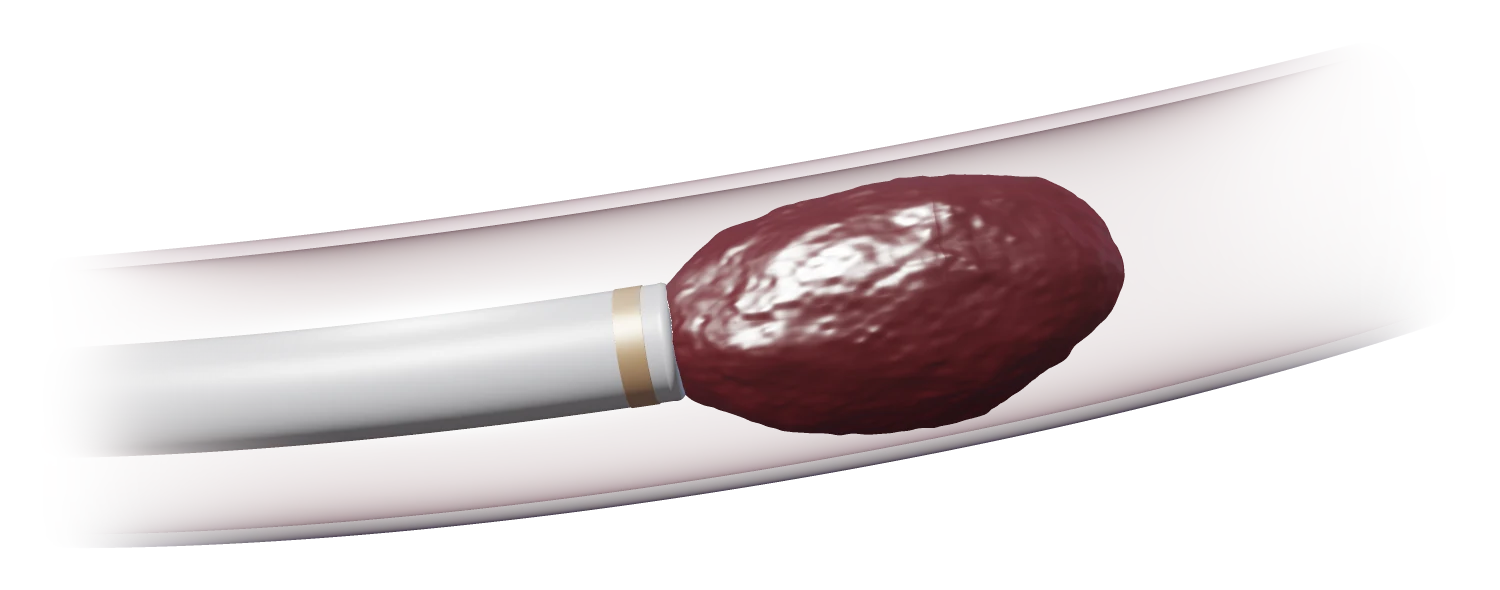
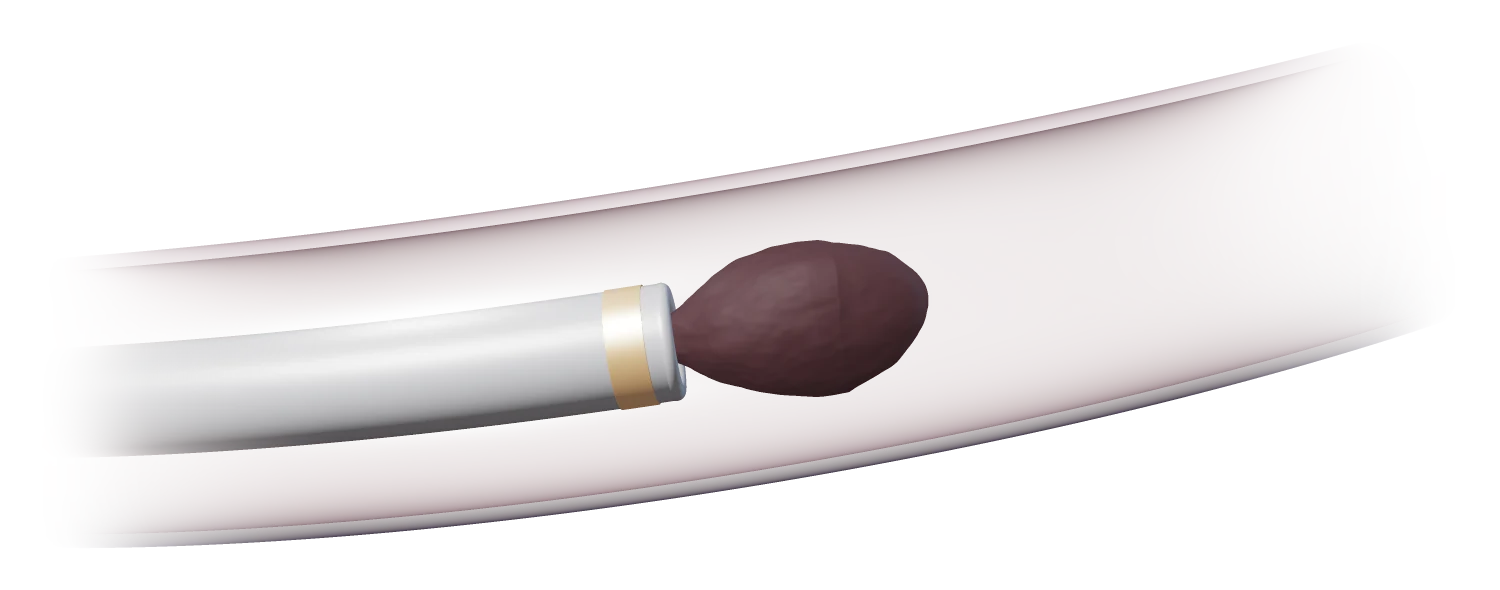
inseratherapeutics: calm whole-line loader reveal, matte muted thrombus in the hero (coordinator review)
Claude-Session: https://claude.ai/code/session_014388NDCrNT9zcoruDCspgC

Changed region(s): [[0.3987, 0.2746, 0.7667, 0.7627]]

diff --git a/_kit/home/inseratherapeutics/render.js b/_kit/home/inseratherapeutics/render.js
@@ -27,17 +27,17 @@ mat3 rotX(float a){float c=cos(a),s=sin(a);return mat3(1.,0.,0.,0.,c,s,0.,-s,c);
 vec3 tube(vec3 p){p=rotZ(-.16)*p;vec2 c=vec2(p.x,p.z+RR);float ph=atan(c.x,c.y);return vec3(ph*RR,length(c)-RR,p.y);}
 float shell(vec3 p){vec3 t=tube(p);return abs(length(t.yz)-RO)-WT;}
 float clotD(vec3 t){
-  vec3 b=vec3(t.x-.62,t.y,t.z);float d=sdEll(b,vec3(.95,.50,.50));
+  vec3 b=vec3(t.x-.28,t.y,t.z);float d=sdEll(b,vec3(.48,.30,.31));
   /* tail, tapering back into the catheter mouth */
-  float u=clamp((t.x-(ST-.18))/(.62-(ST-.18)),0.,1.);float rr=mix(.10,.36,u*u);
-  float tl=max(length(t.yz-vec2(-.01,.0))-rr,max((ST-.18)-t.x,t.x-.62));
+  float u=clamp((t.x-(ST-.12))/(.28-(ST-.12)),0.,1.);float rr=mix(.09,.22,u*u);
+  float tl=max(length(t.yz-vec2(-.01,.0))-rr,max((ST-.12)-t.x,t.x-.28));
   d=smin(d,tl,.16);
-  d+=(fbm(vec3(t.x*2.2,t.y*3.6,t.z*3.6))-.5)*.13+(vn(vec3(t.x*8.,t.y*9.,t.z*9.))-.5)*.014;
+  d+=(fbm(vec3(t.x*2.6,t.y*4.,t.z*4.))-.5)*.07;
   return d;}
 vec2 inner(vec3 p){vec3 t=tube(p);float r=length(t.yz);
   float cat=max(abs(r-.205)-.034,t.x-ST);
   float lip=max(length(vec2(r-.205,t.x-ST+.0))-.036,-1.);cat=min(cat,lip);
-  float mk=max(r-.243,abs(t.x-(ST-.13))-.055);mk=max(mk,-(r-.17));
+  float mk=max(r-.245,abs(t.x-(ST-.15))-.075);mk=max(mk,-(r-.17));
   float cl=clotD(t)*.8;
   vec2 o=vec2(cat,1.);if(mk<o.x)o=vec2(mk,2.);if(cl<o.x)o=vec2(cl,3.);return o;}
 vec3 nI(vec3 p){vec2 e=vec2(.0012,0.);return normalize(vec3(inner(p+e.xyy).x-inner(p-e.xyy).x,inner(p+e.yxy).x-inner(p-e.yxy).x,inner(p+e.yyx).x-inner(p-e.yyx).x));}
@@ -58,9 +58,9 @@ vec4 trace(vec3 ro,vec3 rd){
       float nl=max(dot(n,L1),0.),wl=max(dot(n,L1)*.5+.5,0.);
       if(di.y<1.5){vec3 alb=vec3(.80,.84,.90);c=alb*(.10+.85*nl)*vec3(1.,.98,.95)+alb*vec3(.35,.5,.75)*max(dot(n,L2),0.)*.35;
         c+=vec3(1.)*ggx(n,v,L1,.22)*.25;float F=.04+.96*pow(1.-max(dot(n,v),0.),5.);c=mix(c,env(reflect(rd,n)),F*.5);}
-      else if(di.y<2.5){vec3 alb=vec3(.85,.55,.30);c=alb*(.12+.8*nl)*.6+alb*env(reflect(rd,n))*.9+vec3(1.,.85,.6)*ggx(n,v,L1,.18)*.6;}
-      else{vec3 alb=vec3(.13,.009,.017);float sss=pow(wl,1.7);c=alb*(.05+.9*sss)+vec3(.35,.02,.03)*max(dot(n,L2),0.)*.25;
-        float F=.03+.97*pow(1.-max(dot(n,v),0.),5.);c+=vec3(1.,.93,.9)*(ggx(n,v,L1,.13)*.42+ggx(n,v,normalize(vec3(-.2,.9,.5)),.09)*.22);c+=env(reflect(rd,n))*F*.6;}
+      else if(di.y<2.5){vec3 alb=vec3(.95,.58,.28);c=alb*(.18+.9*nl)*.8+alb*env(reflect(rd,n))*1.2+vec3(1.,.82,.55)*(ggx(n,v,L1,.16)*1.1+ggx(n,v,normalize(vec3(-.2,.9,.5)),.12)*.6);}
+      else{vec3 alb=vec3(.105,.042,.052);float sss=pow(wl,1.4);c=alb*(.08+.7*sss)+vec3(.10,.12,.18)*max(dot(n,L2),0.)*.20;
+        float F=.03+.97*pow(1.-max(dot(n,v),0.),5.);c+=vec3(.9,.85,.85)*ggx(n,v,L1,.55)*.05;c+=env(reflect(rd,n))*F*.18;}
       c*=.25+.75*fd;acc+=(1.-A)*c*fd;A+=(1.-A)*fd;break;}
     if(ds<.0008){
       vec3 n=nS(p),v=-rd;float fd=fadeS(p);float cs=abs(dot(n,v));float F=.035+.965*pow(1.-cs,5.);

diff --git a/inseratherapeutics/index.html b/inseratherapeutics/index.html
@@ -902,6 +902,10 @@ div.mh-row{grid-template-columns:minmax(0,4fr) minmax(0,3fr) minmax(0,5fr) 24px}
 /* footer echo of the hero: quiet enough that the wordmark reads cleanly over it (DF) */
 .ftr .fcv{opacity:.14!important}
 #system .bk{margin-top:clamp(40px,4vw,56px);padding-top:20px}
+/* loader (DR, coordinator review): the wordmark moves as ONE unit; the template's per-letter tween is neutralised here and site.js
+   fades the whole line in and out */
+#pre .wm .c{transform:none!important;opacity:1!important}
+#pre .wm span{opacity:0}
 </style>
 </head>
 </head>
@@ -1546,15 +1550,16 @@ var ARRX='<svg class="arr" viewBox="0 0 18 12" aria-hidden="true"><path d="M0 6h
 
 /*<R:site>*/var SITE="Insera Therapeutics";
 var PK="ins";
-/* loader: the INSERA THERAPEUTICS wordmark rises letter by letter (template SplitText); the italic tagline, as on their logo,
-   fades in beneath it and leaves just before the letters do. */
+/* loader: the INSERA THERAPEUTICS wordmark rises as one whole line (no per-letter motion: extra.css pins the template's split chars),
+   the italic tagline fades in beneath it, and both fade out together when the template starts its exit. */
 (function(){var pre=document.getElementById("pre");if(!pre)return;var pc=pre.querySelector(".pc");if(!pc)return;
   var started=false;
   function go(){if(started||!window.gsap)return;started=true;
-    var ds=pre.querySelector(".wm b");if(!ds)return;gsap.set(ds,{opacity:0,y:6});gsap.to(ds,{opacity:1,y:0,duration:.6,ease:"power2.out",delay:.6});
-    var wm=pre.querySelector(".wm");
-    var mo2=new MutationObserver(function(){var c=wm.querySelector(".c");if(!c)return;var tr=gsap.getProperty(c,"yPercent");
-      if(tr<-5){mo2.disconnect();gsap.to(ds,{opacity:0,y:-6,duration:.22,ease:"power2.in"})}});
+    var ln=pre.querySelector(".wm span"),ds=pre.querySelector(".wm b"),wm=pre.querySelector(".wm");if(!ln||!ds)return;
+    gsap.fromTo(ln,{opacity:0,y:14},{opacity:1,y:0,duration:.75,ease:"power2.out",delay:.12});
+    gsap.fromTo(ds,{opacity:0,y:6},{opacity:1,y:0,duration:.6,ease:"power2.out",delay:.5});
+    var out=false,mo2=new MutationObserver(function(){if(out)return;var c=wm.querySelector(".c");if(!c)return;
+      if(gsap.getProperty(c,"yPercent")<-5){out=true;mo2.disconnect();gsap.killTweensOf([ln,ds]);gsap.to([ln,ds],{opacity:0,duration:.3,ease:"power2.in"})}});
     mo2.observe(wm,{subtree:true,attributes:true,attributeFilter:["style"]});}
   if(pc.style.visibility==="visible")go();
   else{var mo=new MutationObserver(function(){if(pc.style.visibility==="visible"){mo.disconnect();go()}});mo.observe(pc,{attributes:true,attributeFilter:["style"]})}

diff --git a/_kit/src/inseratherapeutics.src.html b/_kit/src/inseratherapeutics.src.html
@@ -896,6 +896,10 @@ div.mh-row{grid-template-columns:minmax(0,4fr) minmax(0,3fr) minmax(0,5fr) 24px}
 /* footer echo of the hero: quiet enough that the wordmark reads cleanly over it (DF) */
 .ftr .fcv{opacity:.14!important}
 #system .bk{margin-top:clamp(40px,4vw,56px);padding-top:20px}
+/* loader (DR, coordinator review): the wordmark moves as ONE unit; the template's per-letter tween is neutralised here and site.js
+   fades the whole line in and out */
+#pre .wm .c{transform:none!important;opacity:1!important}
+#pre .wm span{opacity:0}
 </style>
 </head>
 </head>
@@ -980,15 +984,16 @@ var ARRX='<svg class="arr" viewBox="0 0 18 12" aria-hidden="true"><path d="M0 6h
 
 /*<R:site>*/var SITE="Insera Therapeutics";
 var PK="ins";
-/* loader: the INSERA THERAPEUTICS wordmark rises letter by letter (template SplitText); the italic tagline, as on their logo,
-   fades in beneath it and leaves just before the letters do. */
+/* loader: the INSERA THERAPEUTICS wordmark rises as one whole line (no per-letter motion: extra.css pins the template's split chars),
+   the italic tagline fades in beneath it, and both fade out together when the template starts its exit. */
 (function(){var pre=document.getElementById("pre");if(!pre)return;var pc=pre.querySelector(".pc");if(!pc)return;
   var started=false;
   function go(){if(started||!window.gsap)return;started=true;
-    var ds=pre.querySelector(".wm b");if(!ds)return;gsap.set(ds,{opacity:0,y:6});gsap.to(ds,{opacity:1,y:0,duration:.6,ease:"power2.out",delay:.6});
-    var wm=pre.querySelector(".wm");
-    var mo2=new MutationObserver(function(){var c=wm.querySelector(".c");if(!c)return;var tr=gsap.getProperty(c,"yPercent");
-      if(tr<-5){mo2.disconnect();gsap.to(ds,{opacity:0,y:-6,duration:.22,ease:"power2.in"})}});
+    var ln=pre.querySelector(".wm span"),ds=pre.querySelector(".wm b"),wm=pre.querySelector(".wm");if(!ln||!ds)return;
+    gsap.fromTo(ln,{opacity:0,y:14},{opacity:1,y:0,duration:.75,ease:"power2.out",delay:.12});
+    gsap.fromTo(ds,{opacity:0,y:6},{opacity:1,y:0,duration:.6,ease:"power2.out",delay:.5});
+    var out=false,mo2=new MutationObserver(function(){if(out)return;var c=wm.querySelector(".c");if(!c)return;
+      if(gsap.getProperty(c,"yPercent")<-5){out=true;mo2.disconnect();gsap.killTweensOf([ln,ds]);gsap.to([ln,ds],{opacity:0,duration:.3,ease:"power2.in"})}});
     mo2.observe(wm,{subtree:true,attributes:true,attributeFilter:["style"]});}
   if(pc.style.visibility==="visible")go();
   else{var mo=new MutationObserver(function(){if(pc.style.visibility==="visible"){mo.disconnect();go()}});mo.observe(pc,{attributes:true,attributeFilter:["style"]})}

diff --git a/_kit/home/inseratherapeutics/site.js b/_kit/home/inseratherapeutics/site.js
@@ -1,14 +1,15 @@
 var SITE="Insera Therapeutics";
 var PK="ins";
-/* loader: the INSERA THERAPEUTICS wordmark rises letter by letter (template SplitText); the italic tagline, as on their logo,
-   fades in beneath it and leaves just before the letters do. */
+/* loader: the INSERA THERAPEUTICS wordmark rises as one whole line (no per-letter motion: extra.css pins the template's split chars),
+   the italic tagline fades in beneath it, and both fade out together when the template starts its exit. */
 (function(){var pre=document.getElementById("pre");if(!pre)return;var pc=pre.querySelector(".pc");if(!pc)return;
   var started=false;
   function go(){if(started||!window.gsap)return;started=true;
-    var ds=pre.querySelector(".wm b");if(!ds)return;gsap.set(ds,{opacity:0,y:6});gsap.to(ds,{opacity:1,y:0,duration:.6,ease:"power2.out",delay:.6});
-    var wm=pre.querySelector(".wm");
-    var mo2=new MutationObserver(function(){var c=wm.querySelector(".c");if(!c)return;var tr=gsap.getProperty(c,"yPercent");
-      if(tr<-5){mo2.disconnect();gsap.to(ds,{opacity:0,y:-6,duration:.22,ease:"power2.in"})}});
+    var ln=pre.querySelector(".wm span"),ds=pre.querySelector(".wm b"),wm=pre.querySelector(".wm");if(!ln||!ds)return;
+    gsap.fromTo(ln,{opacity:0,y:14},{opacity:1,y:0,duration:.75,ease:"power2.out",delay:.12});
+    gsap.fromTo(ds,{opacity:0,y:6},{opacity:1,y:0,duration:.6,ease:"power2.out",delay:.5});
+    var out=false,mo2=new MutationObserver(function(){if(out)return;var c=wm.querySelector(".c");if(!c)return;
+      if(gsap.getProperty(c,"yPercent")<-5){out=true;mo2.disconnect();gsap.killTweensOf([ln,ds]);gsap.to([ln,ds],{opacity:0,duration:.3,ease:"power2.in"})}});
     mo2.observe(wm,{subtree:true,attributes:true,attributeFilter:["style"]});}
   if(pc.style.visibility==="visible")go();
   else{var mo=new MutationObserver(function(){if(pc.style.visibility==="visible"){mo.disconnect();go()}});mo.observe(pc,{attributes:true,attributeFilter:["style"]})}

diff --git a/_kit/home/inseratherapeutics/extra.css b/_kit/home/inseratherapeutics/extra.css
@@ -264,3 +264,7 @@ div.mh-row{grid-template-columns:minmax(0,4fr) minmax(0,3fr) minmax(0,5fr) 24px}
 /* footer echo of the hero: quiet enough that the wordmark reads cleanly over it (DF) */
 .ftr .fcv{opacity:.14!important}
 #system .bk{margin-top:clamp(40px,4vw,56px);padding-top:20px}
+/* loader (DR, coordinator review): the wordmark moves as ONE unit; the template's per-letter tween is neutralised here and site.js
+   fades the whole line in and out */
+#pre .wm .c{transform:none!important;opacity:1!important}
+#pre .wm span{opacity:0}

diff --git a/_kit/dossiers/inseratherapeutics.md b/_kit/dossiers/inseratherapeutics.md
@@ -28,7 +28,7 @@ Early-2010s boxed Yahoo-hosted template: cream background, a narrow centred box 
 Sampled from the site screenshot: wordmark indigo #33339a (bold Arial-style sans), tagline rust-orange italic serif, copper rule #cf7720, steel-blue nav and footer band #5492ab, cream ground #e9e8d4. Mapping: indigo → ink #0b0d24 (deep indigo); steel blue → accent #5492ab / light #8fbfd3; copper → marker band and loader tagline #e08f3c / #e8a25a; cream → text #f2f0e4. Type: Arimo 700 for the wordmark (Arial metrics, like their logo), Source Serif 4 italic for the tagline, Archivo for display. Their logo is text only, so header and loader set the wordmark and tagline in those faces (one line).
 
 ## Hero
-Option (c), a crafted render of the mechanism: one translucent artery segment with an aspiration catheter (warm metal marker band at the tip) meeting a dark thrombus. Raymarched offline by _kit/home/inseratherapeutics/render.js (1500×1000, SS3, cropped to 1500×590, edge alpha ramps), real alpha. Unique to this site; no stock photo.
+Option (c), a crafted render of the mechanism: one translucent artery segment with an aspiration catheter (copper marker band at the tip, the focal highlight) meeting a small, matte, muted-maroon thrombus (revised after coordinator review, rule DT: clinical, never visceral). Raymarched offline by _kit/home/inseratherapeutics/render.js (1500×1000, SS3, cropped to 1500×590, edge alpha ramps), real alpha. Unique to this site; no stock photo.
 
 ## Story
 One artery in long section: 1 the catheter is advanced to the clot; 2 a uniform vacuum engages it (trace drops and holds); 3 cyclical vacuum (varied pressure and intervals) draws it in whole; 4 flow restored (blood cells stream). Vacuum trace under the vessel.
